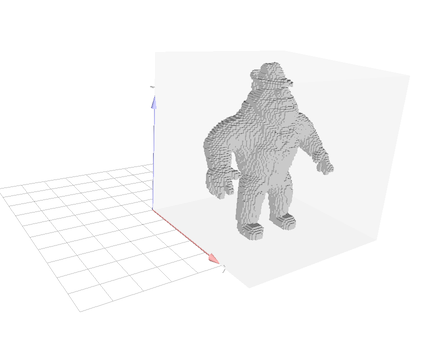
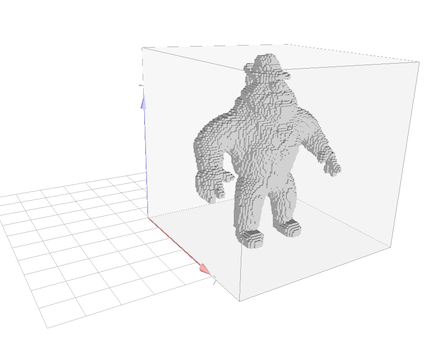
Updating doc image
git-svn-id: https://svn.liris.cnrs.fr/dgtal/trunk@1154 5422497e-619f-4381-bc00-4cdae604c9f6

diff --git a/src/DGtal/3dViewer/DGtalQGLViewer.cpp b/src/DGtal/3dViewer/DGtalQGLViewer.cpp
@@ -135,7 +135,6 @@ DGtal::DGtalQGLViewer::draw()
     Vec n( uy*vz-uz*vy, uz*vx-ux*vz,  ux*vy-uy*vx );
     double normeN=sqrt(n[0]*n[0]+n[1]*n[1]+n[2]*n[2]);
     
-
     glBegin(GL_QUADS);
     glColor4ub(myQuadList.at(i).R, myQuadList.at(i).G, myQuadList.at(i).B, myQuadList.at(i).T);    
     glNormal3f(-n[0]/normeN,-n[1]/normeN,-n[2]/normeN);
@@ -144,8 +143,19 @@ DGtal::DGtalQGLViewer::draw()
     glVertex3f(myQuadList.at(i).x3, myQuadList.at(i).y3, myQuadList.at(i).z3);
     glVertex3f(myQuadList.at(i).x4, myQuadList.at(i).y4, myQuadList.at(i).z4);
     glEnd();
-    
-
+    glDisable(GL_LIGHTING);
+    glBegin(GL_LINES);
+    glColor4ub(150.0,150.0,150.0,255.0);
+    glVertex3f(myQuadList.at(i).x1, myQuadList.at(i).y1, myQuadList.at(i).z1);
+    glVertex3f(myQuadList.at(i).x2, myQuadList.at(i).y2, myQuadList.at(i).z2);
+    glVertex3f(myQuadList.at(i).x2, myQuadList.at(i).y2, myQuadList.at(i).z2);
+    glVertex3f(myQuadList.at(i).x3, myQuadList.at(i).y3, myQuadList.at(i).z3);
+    glVertex3f(myQuadList.at(i).x3, myQuadList.at(i).y3, myQuadList.at(i).z3);
+    glVertex3f(myQuadList.at(i).x4, myQuadList.at(i).y4, myQuadList.at(i).z4);
+    glVertex3f(myQuadList.at(i).x4, myQuadList.at(i).y4, myQuadList.at(i).z4);
+    glVertex3f(myQuadList.at(i).x1, myQuadList.at(i).y1, myQuadList.at(i).z1);
+    glEnd();
+    glEnable(GL_LIGHTING);
   }
 }
 
